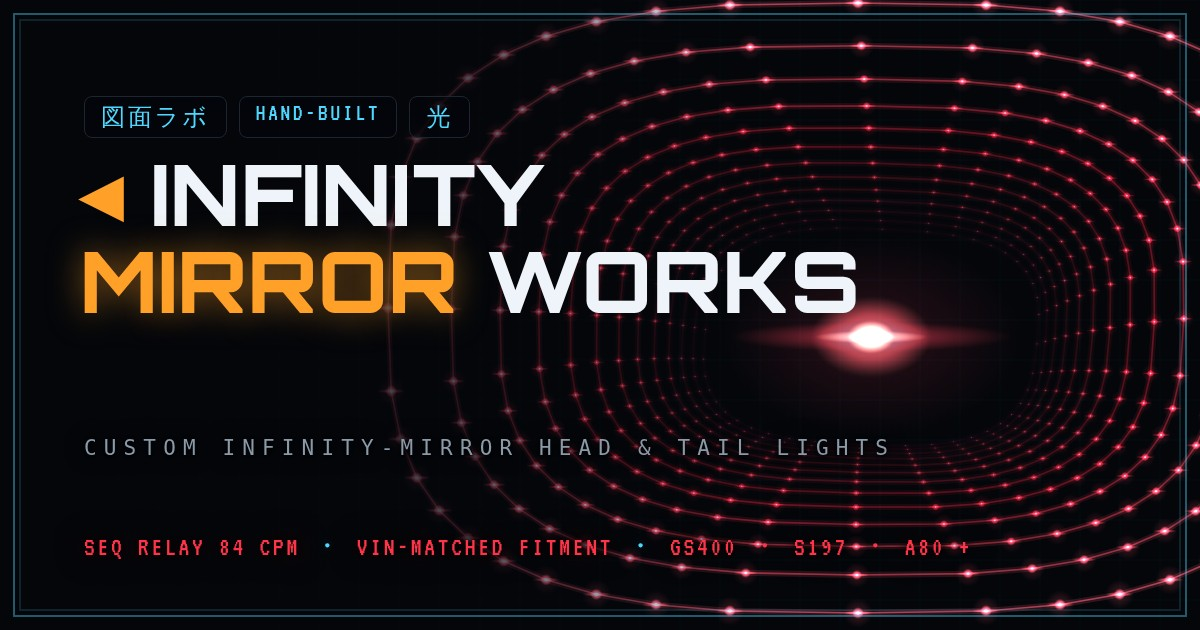
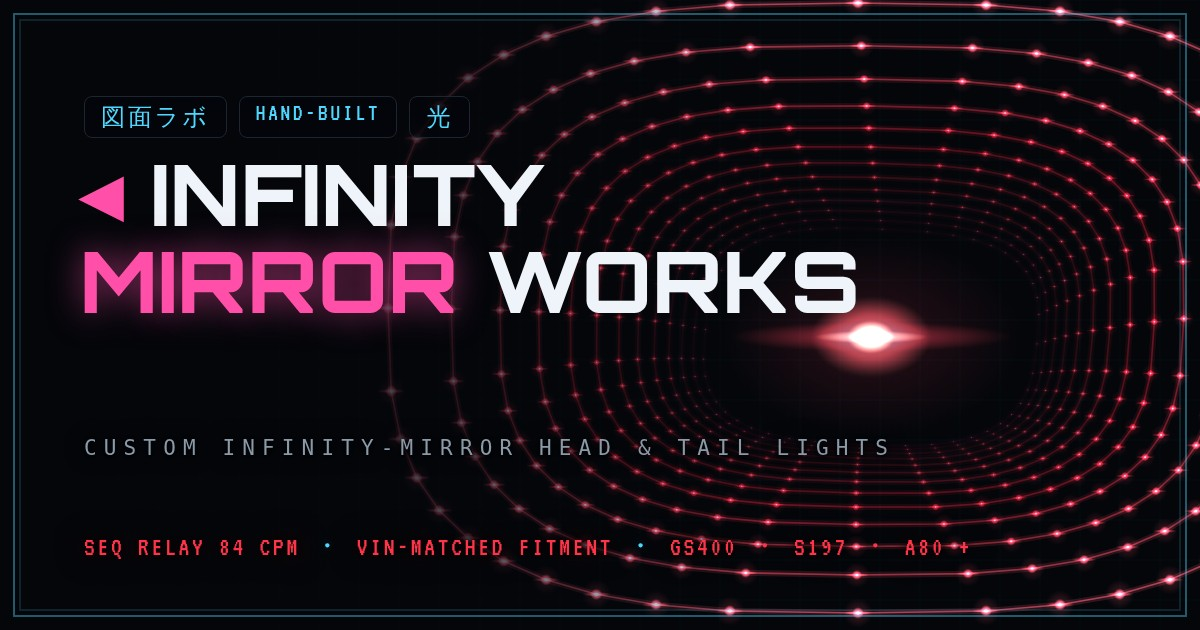
Pink-primary livery + 3-scheme accent toggle (pink / classic / breathe)
The brand accent moves off MangoMatrix amber onto hot pink (#ff4fa8)
via a scheme-controlled --acc token: wordmark, CTAs, prices, build
sheet, active states. Orange survives as curated pops — turn stalks
(amber is what turn signals are), INT readout, spec-badge chip, illumi
LED, terms and cores lines, drafting tags. Blueprint cyan unchanged.

A new chip beside the language toggle cycles three liveries: PINK
(default), CLASSIC (the original amber), and BREATHE — a 14s @property
keyframe drifting --acc through pink → cyan → amber, the site's three
primaries. The chip's dot paints itself with the live accent so it
breathes too. Persisted per browser; reduced-motion pins breathe still;
non-@property browsers get a stepped cycle. Share card MIRROR regenerated
in pink.

Claude-Session: https://claude.ai/code/session_01NRUnPLGML5Nfb5xTs7KAHT

Changed region(s): [[0.0617, 0.3921, 0.4008, 0.5127], [0.0617, 0.2714, 0.1233, 0.3619]]

diff --git a/store.html b/store.html
@@ -29,12 +29,12 @@
   .storebar{width:min(1200px,100%);display:flex;align-items:baseline;justify-content:space-between;gap:12px;flex-wrap:wrap;}
   .storebar .wordmark{font-family:var(--font-disp);font-weight:800;font-size:clamp(17px,2.6vw,24px);
     letter-spacing:.005em;text-transform:uppercase;color:var(--etch);text-decoration:none;}
-  .storebar .wordmark .inf{color:var(--amber);text-shadow:0 0 14px var(--amber-glow);}
+  .storebar .wordmark .inf{color:var(--acc);text-shadow:0 0 14px var(--acc-glow);}
   .storebar .jp{font-size:10px;letter-spacing:.32em;color:var(--silk);}
 
   .terms{margin-top:10px;font-size:15px;letter-spacing:.08em;color:var(--amber);opacity:.85;}
   .terms b{color:var(--bp);}
-  .total.grand b{color:var(--amber);text-shadow:0 0 12px var(--amber-glow);}
+  .total.grand b{color:var(--acc);text-shadow:0 0 12px var(--acc-glow);}
   .fitstrip{width:min(1200px,100%);background:linear-gradient(180deg,var(--hous-1),var(--hous-0));
     border:1px solid var(--edge-lo);border-radius:14px;padding:16px 18px;
     box-shadow:0 1px 0 var(--edge-hi) inset;}
@@ -54,7 +54,7 @@
     display:flex;flex-direction:column;gap:9px;box-shadow:0 1px 0 var(--edge-hi) inset;}
   .prod .nm{font-size:13px;font-weight:700;color:var(--etch);letter-spacing:.03em;line-height:1.4;}
   .prod .sku{font-size:9px;letter-spacing:.18em;color:var(--silk);}
-  .prod .pr{font-family:var(--font-pixel);font-size:24px;color:var(--amber);text-shadow:0 0 8px var(--amber-glow);}
+  .prod .pr{font-family:var(--font-pixel);font-size:24px;color:var(--acc);text-shadow:0 0 8px var(--acc-glow);}
   .prod .desc{font-size:11.5px;color:var(--silk);line-height:1.55;flex:1;}
   .prod .fit{font-size:9px;letter-spacing:.14em;padding:3px 8px;border-radius:20px;border:1px solid;align-self:flex-start;}
   .fit.yes{color:var(--ok);border-color:var(--ok);}
@@ -64,7 +64,7 @@
     border:1px solid var(--edge-lo);border-radius:7px;padding:7px 8px;}
   .prod .addrow{display:flex;gap:8px;align-items:center;}
   .prod .add{flex:1;justify-content:center;font-weight:700;color:var(--etch);}
-  .prod .add:hover{border-color:var(--amber);color:var(--amber);}
+  .prod .add:hover{border-color:var(--acc);color:var(--acc);}
   .prod .bplink{font-size:9px;letter-spacing:.14em;color:var(--bp);text-decoration:none;}
   .prod .bplink:hover{text-shadow:0 0 8px var(--bp-glow);}
 
@@ -72,8 +72,8 @@
   .sheetcard{position:sticky;top:16px;background:linear-gradient(180deg,var(--hous-1),var(--hous-0));
     border:1px solid var(--edge-lo);border-radius:14px;padding:16px 18px;
     box-shadow:0 0 0 1px rgba(255,160,40,.14),0 1px 0 var(--edge-hi) inset;display:flex;flex-direction:column;gap:10px;}
-  .sheetcard h2{font-family:var(--font-pixel);font-size:24px;font-weight:400;margin:0;color:var(--amber);
-    text-shadow:0 0 10px var(--amber-glow);letter-spacing:.04em;}
+  .sheetcard h2{font-family:var(--font-pixel);font-size:24px;font-weight:400;margin:0;color:var(--acc);
+    text-shadow:0 0 10px var(--acc-glow);letter-spacing:.04em;}
   .sheetcard .sub{font-size:9px;letter-spacing:.2em;color:var(--silk);}
   .lines{display:flex;flex-direction:column;gap:8px;max-height:320px;overflow:auto;}
   .line{display:flex;align-items:center;gap:8px;border:1px solid var(--edge-lo);border-radius:8px;
@@ -82,9 +82,9 @@
   .line .n small{display:block;color:var(--silk);letter-spacing:.08em;}
   .line .q{display:flex;gap:4px;align-items:center;}
   .line .q button{width:22px;height:22px;font-size:12px;padding:0;border-radius:5px;}
-  .line .amt{font-family:var(--font-pixel);font-size:16px;color:var(--amber);white-space:nowrap;}
+  .line .amt{font-family:var(--font-pixel);font-size:16px;color:var(--acc);white-space:nowrap;}
   .total{display:flex;justify-content:space-between;align-items:baseline;border-top:1px solid var(--edge-lo);padding-top:10px;}
-  .total b{font-family:var(--font-pixel);font-size:26px;font-weight:400;color:var(--amber);text-shadow:0 0 10px var(--amber-glow);}
+  .total b{font-family:var(--font-pixel);font-size:26px;font-weight:400;color:var(--acc);text-shadow:0 0 10px var(--acc-glow);}
   .sheetcard .cta{margin-top:4px;justify-content:center;}
   .copyok{font-size:10px;letter-spacing:.14em;color:var(--ok);min-height:14px;}
   .flowcard{border-top:1px solid var(--edge-lo);padding-top:10px;display:flex;flex-direction:column;gap:7px;}
@@ -99,6 +99,7 @@
   <div class="storebar">
     <a class="wordmark" href="/">◀ INFINITY <span class="inf">MIRROR</span> WORKS</a>
     <span class="jp"><span class="jx jx-acc" data-en="SHOP">ストア</span> ・ STORE ・ <span class="jx jx-acc" data-en="LIGHT">光</span></span>
+    <button class="hbtn langbtn" data-accent-toggle aria-label="Color scheme"></button>
     <button class="hbtn langbtn" data-lang-toggle aria-label="Switch language">EN</button>
   </div>
 

diff --git a/src/theme.css b/src/theme.css
@@ -17,7 +17,8 @@
 
   /* LED emitters */
   --drl:#eaf6ff;      --drl-glow:rgba(170,225,255,.55);
-  --amber:#ffa028;    --amber-glow:rgba(255,160,40,.5);
+  --acc:#ff4fa8;      --acc-glow:rgba(255,79,168,.52);   /* scheme-controlled */
+  --amber:#ffa028;    --amber-glow:rgba(255,160,40,.5);  /* fixed orange pops */
   --tail:#ff2038;     --tail-glow:rgba(255,32,56,.5);
   --bp:#4fd8ff;       --bp-glow:rgba(79,216,255,.45);   /* blueprint cyan */
   --show:#b06bff;     --show-glow:rgba(176,107,255,.5);
@@ -160,8 +161,8 @@ body{margin:0;}
   background:var(--btn-face);color:var(--etch);border:1px solid var(--edge-lo);
   border-radius:6px;padding:7px 11px;box-shadow:0 1px 0 var(--edge-hi) inset;}
 .preset:hover{border-color:var(--silk);}
-.preset[aria-pressed="true"]{color:var(--amber);border-color:var(--amber);
-  text-shadow:0 0 8px var(--amber-glow);}
+.preset[aria-pressed="true"]{color:var(--acc);border-color:var(--acc);
+  text-shadow:0 0 8px var(--acc-glow);}
 
 /* content cards */
 .content{width:min(1060px,100%);}
@@ -173,8 +174,8 @@ body{margin:0;}
   box-shadow:0 1px 0 var(--edge-hi) inset;}
 .card h2{font-family:var(--font-disp);font-weight:800;letter-spacing:-.02em;
   text-transform:uppercase;margin:0 0 4px;font-size:clamp(20px,3vw,26px);color:var(--etch);}
-.eyebrow{font-size:11px;letter-spacing:.28em;color:var(--amber);
-  text-shadow:0 0 8px var(--amber-glow);margin-bottom:10px;}
+.eyebrow{font-size:11px;letter-spacing:.28em;color:var(--acc);
+  text-shadow:0 0 8px var(--acc-glow);margin-bottom:10px;}
 .card p{color:var(--silk);line-height:1.65;max-width:64ch;font-size:14px;}
 .feat{list-style:none;padding:0;margin:16px 0 0;display:grid;
   grid-template-columns:repeat(auto-fit,minmax(200px,1fr));gap:10px;}
@@ -183,8 +184,8 @@ body{margin:0;}
 .feat .d{color:var(--silk);font-size:12px;margin-top:3px;line-height:1.5;}
 .cta{display:inline-flex;align-items:center;gap:9px;margin-top:18px;
   font-family:var(--font-mono);font-weight:700;letter-spacing:.08em;font-size:13px;
-  text-decoration:none;color:#0a0c0e;background:var(--amber);border:0;cursor:pointer;
-  padding:12px 20px;border-radius:8px;box-shadow:0 0 20px var(--amber-glow);}
+  text-decoration:none;color:#0a0c0e;background:var(--acc);border:0;cursor:pointer;
+  padding:12px 20px;border-radius:8px;box-shadow:0 0 20px var(--acc-glow);}
 .cta:hover{filter:brightness(1.08);}
 .cta.ice{background:var(--drl);box-shadow:0 0 20px var(--drl-glow);}
 .cta.red{background:var(--tail);color:#fff;box-shadow:0 0 20px var(--tail-glow);}
@@ -232,4 +233,23 @@ textarea, input[type="text"], input[type="email"], input[type="search"] { cursor
       a step smaller so it stays an accent, never a headline ── */
 html[data-lang="en"] .jx-acc{font-size:.86em;letter-spacing:.14em;opacity:.92;}
 .langbtn{font-size:10px;letter-spacing:.18em;padding:5px 10px;min-width:44px;}
-.langbtn[aria-pressed="true"]{color:var(--amber);border-color:var(--amber);}
+.langbtn[aria-pressed="true"]{color:var(--acc);border-color:var(--acc);}
+
+/* ── accent schemes — three liveries on one housing ──────────────
+   pink (default) / classic amber / breathe (cycles the three
+   primaries). @property lets the breathe keyframes interpolate;
+   without support the cycle steps, which still reads as breathing. */
+@property --acc { syntax: '<color>'; inherits: true; initial-value: #ff4fa8; }
+@property --acc-glow { syntax: '<color>'; inherits: true; initial-value: rgba(255,79,168,.52); }
+:root{ transition: --acc .5s ease, --acc-glow .5s ease; }
+:root[data-accent="classic"]{ --acc:#ffa028; --acc-glow:rgba(255,160,40,.5); }
+:root[data-accent="breathe"]{ animation: accbreathe 14s ease-in-out infinite; }
+@keyframes accbreathe{
+  0%, 100% { --acc:#ff4fa8; --acc-glow:rgba(255,79,168,.52); }
+  33%      { --acc:#4fd8ff; --acc-glow:rgba(79,216,255,.5); }
+  66%      { --acc:#ffa028; --acc-glow:rgba(255,160,40,.5); }
+}
+@media (prefers-reduced-motion: reduce){
+  :root[data-accent="breathe"]{ animation: none; }
+}
+.accdot{ color:var(--acc); text-shadow:0 0 8px var(--acc-glow); }

diff --git a/src/ui/accent.ts b/src/ui/accent.ts
@@ -1,0 +1,42 @@
+/* Accent scheme toggle — three liveries for the same housing:
+     pink     ホットピンク primary (default)
+     classic  the original amber
+     breathe  --acc slowly cycles pink → cyan → amber (the site's three
+              primaries) via a CSS keyframe on :root
+   The chip shows the CURRENT scheme; its dot paints itself with the
+   live accent, so in breathe mode the dot breathes too. */
+
+import { ensureAudio, relayTick } from './sound';
+
+const KEY = 'im-accent';
+export type Accent = 'pink' | 'classic' | 'breathe';
+const ORDER: Accent[] = ['pink', 'classic', 'breathe'];
+const LABEL: Record<Accent, string> = {
+  pink: 'PINK', classic: 'CLASSIC', breathe: 'BREATHE',
+};
+
+export function currentAccent(): Accent {
+  try {
+    const v = localStorage.getItem(KEY) as Accent | null;
+    return v && ORDER.includes(v) ? v : 'pink';
+  } catch { return 'pink'; }
+}
+
+function apply(a: Accent): void {
+  document.documentElement.setAttribute('data-accent', a);
+  document.querySelectorAll<HTMLElement>('[data-accent-toggle]').forEach((b) => {
+    b.innerHTML = `<span class="accdot" aria-hidden="true">●</span> ${LABEL[a]}`;
+    b.setAttribute('aria-label', 'Color scheme: ' + LABEL[a]);
+  });
+}
+
+export function initAccent(): void {
+  apply(currentAccent());
+  document.querySelectorAll<HTMLElement>('[data-accent-toggle]').forEach((b) =>
+    b.addEventListener('click', () => {
+      ensureAudio(); relayTick();
+      const next = ORDER[(ORDER.indexOf(currentAccent()) + 1) % ORDER.length];
+      try { localStorage.setItem(KEY, next); } catch { /* session-only */ }
+      apply(next);
+    }));
+}

diff --git a/index.html b/index.html
@@ -128,7 +128,7 @@
     display:flex;flex-direction:column;gap:8px;}
   .prod .nm{font-size:13px;font-weight:700;color:var(--etch);letter-spacing:.03em;}
   .prod .sku{font-size:9px;letter-spacing:.18em;color:var(--silk);}
-  .prod .pr{font-family:var(--font-pixel);font-size:22px;color:var(--amber);text-shadow:0 0 8px var(--amber-glow);}
+  .prod .pr{font-family:var(--font-pixel);font-size:22px;color:var(--acc);text-shadow:0 0 8px var(--acc-glow);}
   .prod .fit{font-size:9px;letter-spacing:.14em;padding:3px 8px;border-radius:20px;border:1px solid;align-self:flex-start;}
   .fit.yes{color:var(--ok);border-color:var(--ok);}
   .fit.build{color:var(--bp);border-color:var(--bp);}
@@ -188,6 +188,7 @@
         </div>
         <div style="display:flex;gap:12px;align-items:center;">
           <div class="model"><span class="jx" data-en="IM-∞88 LIGHT ENGINE · DC12V">IM-∞88 ライトエンジン · DC12V</span><br><span class="jx" data-en="2× 146-LED · SEALED BEAM">2× 146-LED · シールドビーム</span> · <span class="jx jx-acc" data-en="LIGHT">光</span></div>
+          <button class="hbtn langbtn" data-accent-toggle aria-label="Color scheme"></button>
           <button class="hbtn langbtn" data-lang-toggle aria-label="Switch language">EN</button>
           <button class="hbtn" id="illumi" aria-label="Toggle night / bench illumination">
             <span class="led on" style="background:var(--amber);box-shadow:0 0 8px var(--amber-glow);"></span>

diff --git a/lab.html b/lab.html
@@ -52,7 +52,7 @@
   .bp-item.q .st{color:var(--amber);font-size:9px;letter-spacing:.14em;}
   .modes{display:grid;grid-template-columns:1fr 1fr;gap:6px;}
   .modes .hbtn{padding:9px 6px;font-size:9.5px;}
-  .modes .hbtn[aria-pressed="true"]{color:var(--amber);border-color:var(--amber);text-shadow:0 0 8px var(--amber-glow);}
+  .modes .hbtn[aria-pressed="true"]{color:var(--acc);border-color:var(--acc);text-shadow:0 0 8px var(--acc-glow);}
   .rail .note{font-size:10.5px;line-height:1.6;color:var(--silk);}
   .rail .note b{color:var(--etch);}
 </style>
@@ -61,6 +61,7 @@
   <div class="labbar">
     <a class="wordmark" href="/">◀ INFINITY <span class="inf">MIRROR</span> WORKS</a>
     <span class="jp"><span class="jx jx-acc" data-en="DRAWING LAB">図面ラボ</span> ・ BLUEPRINT LAB ・ <span class="jx jx-acc" data-en="LIGHT">光</span></span>
+    <button class="hbtn langbtn" data-accent-toggle aria-label="Color scheme"></button>
     <button class="hbtn langbtn" data-lang-toggle aria-label="Switch language">EN</button>
   </div>
 

diff --git a/src/home/main.ts b/src/home/main.ts
@@ -12,6 +12,7 @@ import { readGarage, type ResolvedVehicle } from '../fitment/ymm';
 import { CATALOG, fitsChassis, fmtPrice, pDesc, pEta, pName } from '../store/catalog';
 import { ensureAudio, powerThunk, relayTick } from '../ui/sound';
 import { currentLang, initLang, L } from '../ui/lang';
+import { initAccent } from '../ui/accent';
 
 const $ = <T extends HTMLElement = HTMLElement>(id: string): T =>
   document.getElementById(id) as T;
@@ -263,3 +264,4 @@ function loop(now: number): void {
 requestAnimationFrame(loop);
 
 initLang();
+initAccent();

diff --git a/src/store/main.ts b/src/store/main.ts
@@ -14,6 +14,7 @@ import {
 import { ensureAudio, relayTick } from '../ui/sound';
 import { L } from '../ui/lang';
 import { initLang } from '../ui/lang';
+import { initAccent } from '../ui/accent';
 
 const $ = <T extends HTMLElement = HTMLElement>(id: string): T =>
   document.getElementById(id) as T;
@@ -133,3 +134,4 @@ renderSheet();
 document.addEventListener('im:lang', () => { renderGarage(); renderGrid(); renderSheet(); });
 
 initLang();
+initAccent();

diff --git a/src/lab/main.ts b/src/lab/main.ts
@@ -9,6 +9,7 @@ import type { LampMode } from '../lamp/types';
 import { ensureAudio, relayTick } from '../ui/sound';
 import { L } from '../ui/lang';
 import { initLang } from '../ui/lang';
+import { initAccent } from '../ui/accent';
 
 const $ = <T extends HTMLElement = HTMLElement>(id: string): T =>
   document.getElementById(id) as T;
@@ -62,3 +63,4 @@ function loop(now: number): void {
 requestAnimationFrame(loop);
 
 initLang();
+initAccent();
